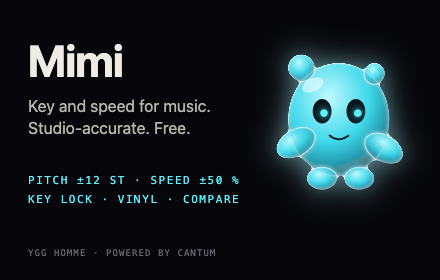
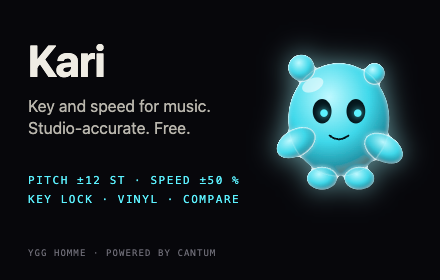
Store images re-shot for Kari: current build, theater mode, Creative Commons video; probe scripts executable

Changed region(s): [[0.0591, 0.1429, 0.2955, 0.2857]]

diff --git a/docs/STORE-LISTING.md b/docs/STORE-LISTING.md
@@ -59,13 +59,19 @@ No remote code. The worklet and the WebAssembly engine ship inside the package.
 - Homepage: https://cantum.io/kari
 - Security: security@cantum.io
 
-## Screenshots (1280×800, taken on real youtube.com)
+## Screenshots (1280×800, in `docs/store/`, real youtube.com)
 
-1. The dock on a music video, controls unfolded, slider at −20 %, pitch −2, engine R3, a/v readout visible.
-2. Full control open: vinyl / key lock, range pills, hold to compare, key names, readouts.
-3. Kari folded alone on the player (hidden state), pink colourway with the YGG cap.
-4. The Constellation interface, moon on the orbit at +3.
-5. The settings page: interface, Kari's look, wardrobe, engine tier, privacy line.
+Shot with `tools/probe/shoot-store.sh` on the current build, in theater mode, on a Creative Commons performance
+(Illinois Brass Band, "Ritual Fire Dance", video `i0riJz2U6Zs`, channel Creative Commons Music and Audio), so no
+third-party music video is featured in the listing.
+
+1. `01-dock.png` — the dock on the player: speed 0.80×, pitch −2, key lock, Kari beside it.
+2. `02-full-control.png` — full control open: vinyl / key lock, range, hold to compare, key names, engine R3, a/v readout.
+3. `03-kari-folded.png` — controls folded into Kari (pink, YGG cap).
+4. `05-options.png` — the settings page: interface, Kari's colour and wardrobe, controls, engine tier.
+5. `04-constellation.png` — optional; the Constellation interface at +3. Its speed label overlaps the dock readout, so upload it last or skip it.
+
+Promo tile 440×280: `promo-440x280.png` ("Kari · Key and speed for music. Studio-accurate. Free.").
 
 ## Promo tile (440×280)
 
